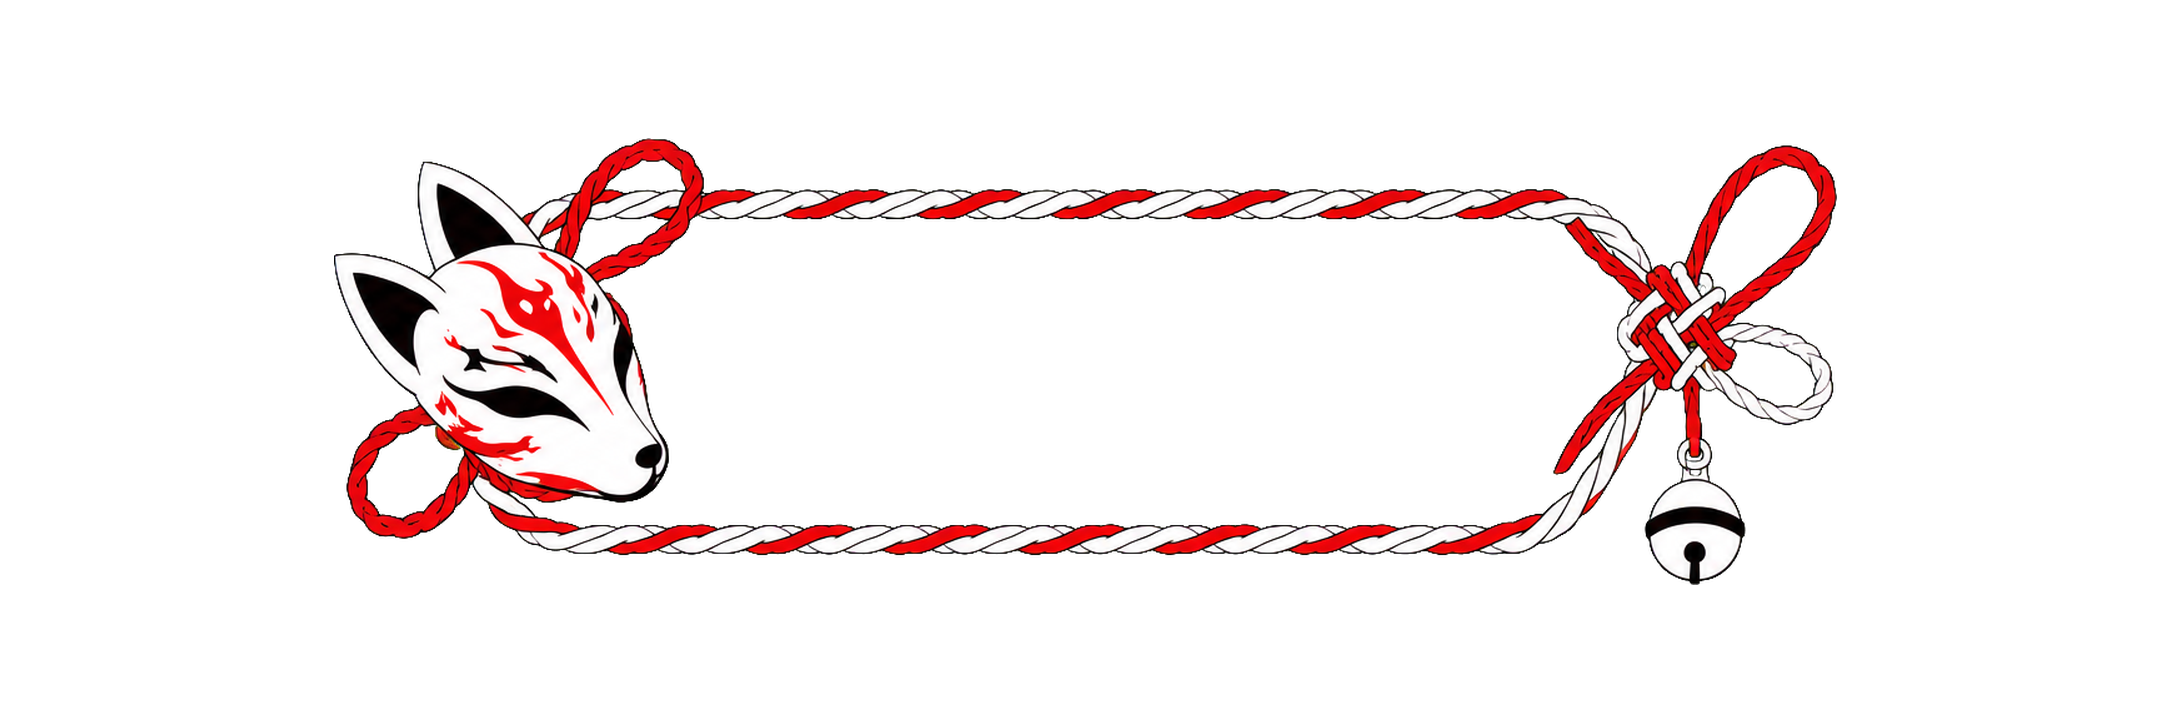
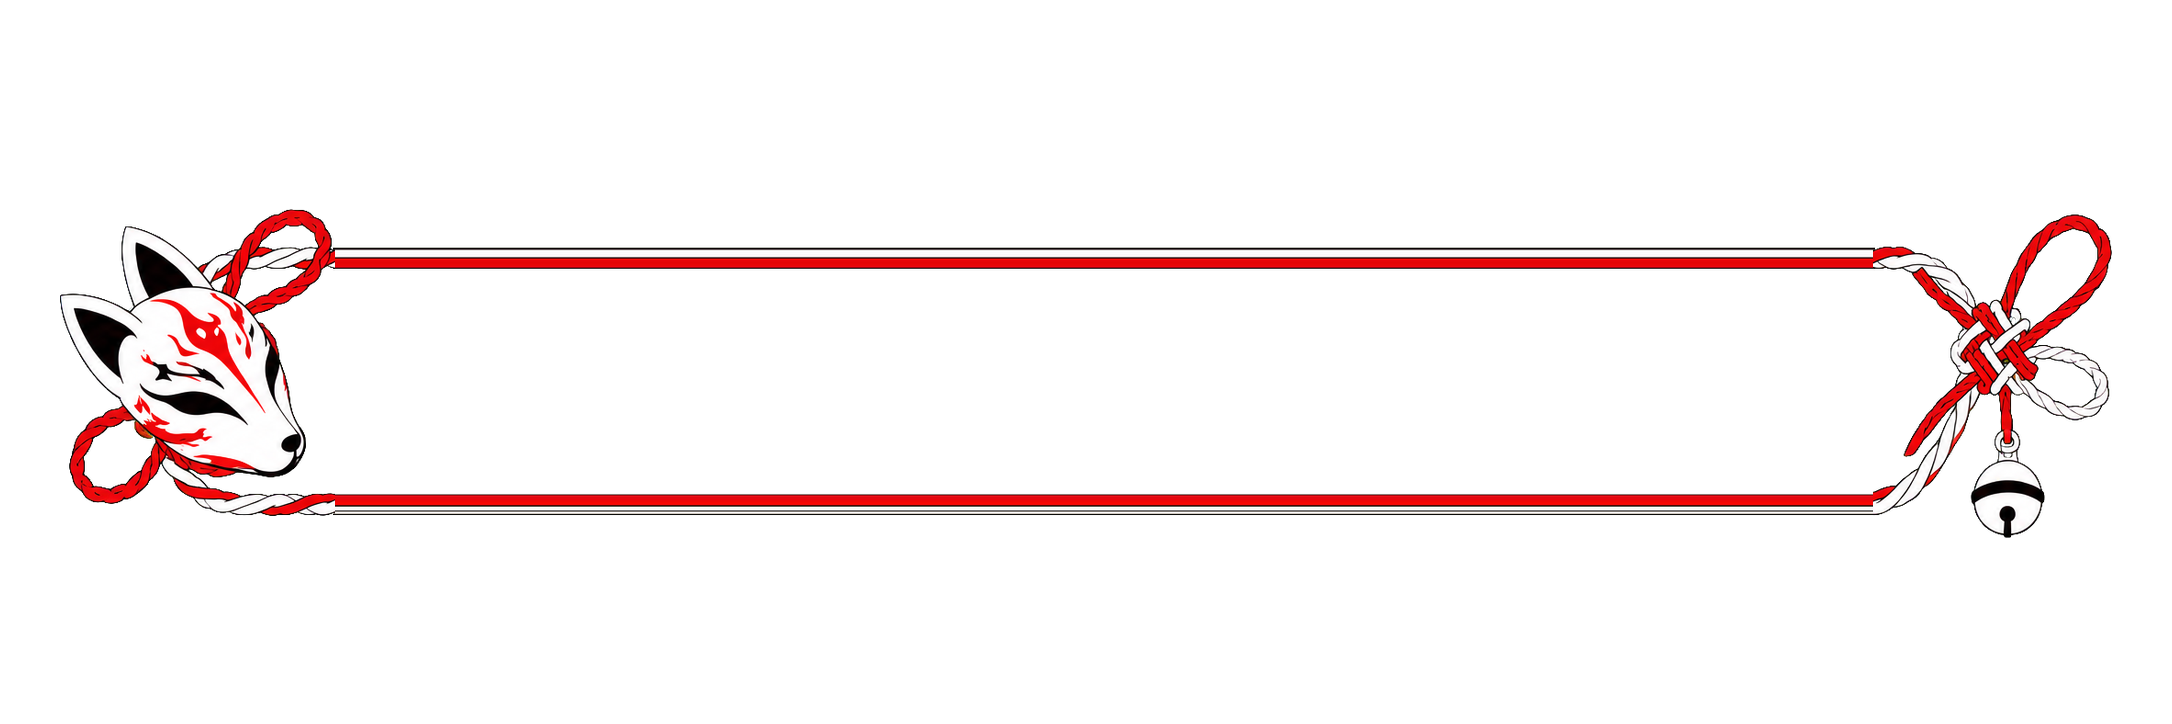
浮窗收纳 1.2.4: fix 结缘 frame layout
Claude-Session: https://claude.ai/code/session_016ZoYV6qnLxrkBwC2NWcMJa

Changed region(s): [[0.0308, 0.1823, 0.9871, 0.8204], [0.8329, 0.4862, 0.8637, 0.547]]

diff --git a/style.css b/style.css
@@ -138,4 +138,4 @@
 #lfd-root[data-theme=abyss] .lfd-tray::after{inset:calc(60px * var(--lfd-frame-scale)) calc(28px * var(--lfd-frame-scale)) calc(61px * var(--lfd-frame-scale));opacity:.94}
 /* 雾隐山行：红白黑，深色底 */
 #lfd-root[data-theme=fox]{--lfd-paper:#0e0a0c;--lfd-ink:#f2ecec}
-#lfd-root[data-theme=fox] .lfd-tray::after{inset:33% 18% 33%;opacity:.94}
+#lfd-root[data-theme=fox] .lfd-tray::after{inset:calc(60px * var(--lfd-frame-scale)) calc(28px * var(--lfd-frame-scale)) calc(61px * var(--lfd-frame-scale));opacity:.94}
